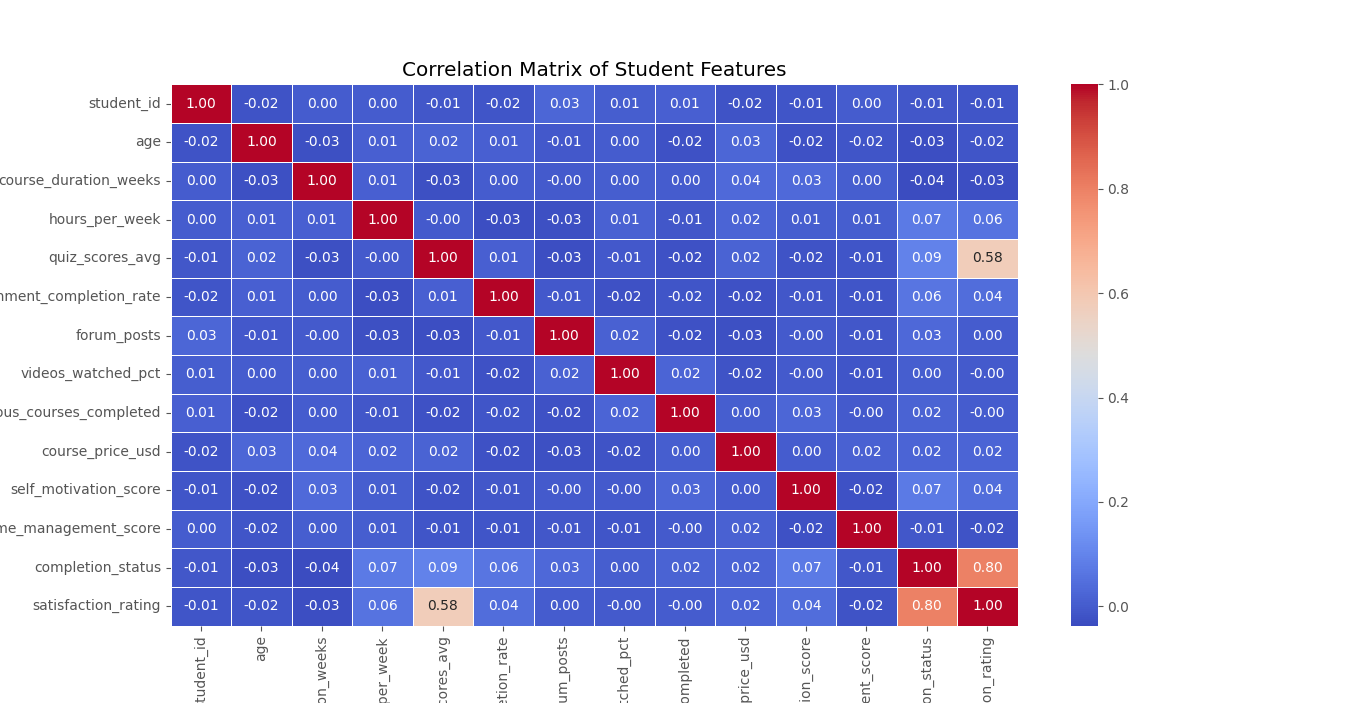
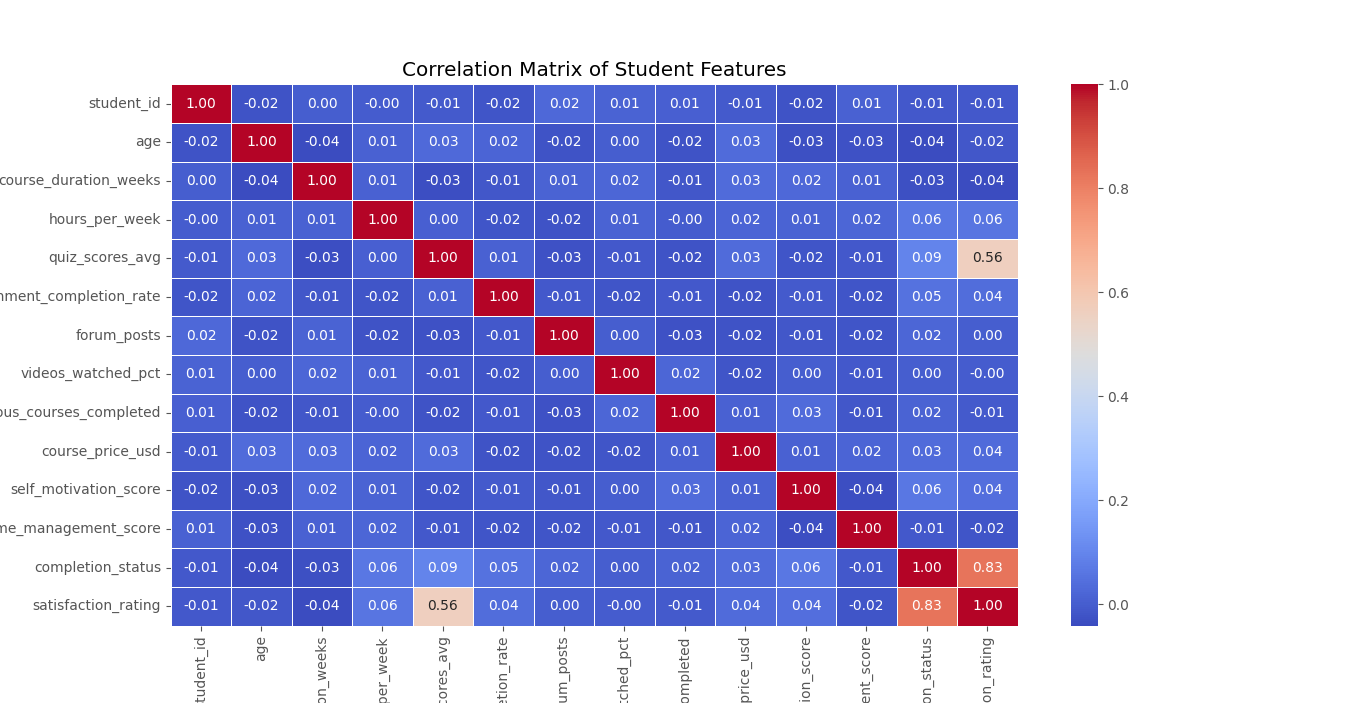
SVM graph

diff --git a/main.py b/main.py
@@ -23,6 +23,9 @@ print("Are there any nulls in the dataset?", df.isna().values.any())
 # check for duplicates
 print("Total duplicates:", df.duplicated().sum())
 
+# Removing in progress students as we don't know the outcome
+df = df[df['completion_status'] != 'In Progress'].copy()
+
 # check for balanced classes?
 # Potential bias toward 'Completed' as majority class
 sns.countplot(x='completion_status', data=df)
@@ -35,7 +38,7 @@ plt.title('Does a higher self-motivation score lead to completion?')
 plt.clf()
 
 # encoding completion_status for heatmap
-df['completion_status'] = df['completion_status'].map({'Dropped': 0, 'In Progress': 1, 'Completed': 2})
+df['completion_status'] = df['completion_status'].map({'Dropped': 0, 'Completed': 1})
 
 # Correlation matrix heatmap
 numeric_df = df.select_dtypes(include=['float64', 'int64'])
@@ -45,4 +48,55 @@ numeric_df = df.select_dtypes(include=['float64', 'int64'])
 plt.figure(figsize=(12, 8))
 sns.heatmap(numeric_df.corr(), annot=True, cmap='coolwarm', fmt=".2f", linewidths=0.5)
 plt.title('Correlation Matrix of Student Features')
+plt.clf()
+
+from sklearn.svm import SVC
+from sklearn.model_selection import train_test_split
+from sklearn.preprocessing import StandardScaler
+from sklearn.metrics import classification_report
+
+# defining features and target
+X = df[['hours_per_week', 'satisfaction_rating']]
+y = df['completion_status']
+
+# train test split
+X_train, X_test, y_train, y_test = train_test_split(X, y, test_size=0.2, random_state=42)
+
+# scaling X data
+scaler = StandardScaler()
+X_train_scaled = scaler.fit_transform(X_train)
+X_test_scaled = scaler.transform(X_test)
+
+# training
+svm_model = SVC(kernel='linear', class_weight='balanced')
+svm_model.fit(X_train_scaled, y_train)
+
+# evaluate
+# very high score of 0.98. Same score across
+score = svm_model.score(X_test_scaled, y_test)
+print(f"Model Accuracy on Test Set: {score:.2f}")
+print(f"Training Accuracy: {svm_model.score(X_train_scaled, y_train):.2f}")
+print(f"Test Accuracy: {svm_model.score(X_test_scaled, y_test):.2f}")
+
+# Visualization
+# Plotting the test set and the decision boundary
+df_scaled = pd.DataFrame(X_test_scaled, columns=['Hours', 'Satisfaction'])
+df_scaled['Status'] = y_test.values
+
+# Use Seaborn's scatterplot with hue (color)
+plt.figure(figsize=(8, 6))
+sns.scatterplot(data=df_scaled, x='Hours', y='Satisfaction', hue='Status', palette='coolwarm', style=None, s=100)
+
+# adding hyperplane
+w = svm_model.coef_[0]
+b = svm_model.intercept_[0]
+
+x_range = np.array([df_scaled['Hours'].min(), df_scaled['Hours'].max()])
+y_range = -(w[0] / w[1]) * x_range - (b / w[1])
+
+plt.plot(x_range, y_range, 'k--', linewidth=2, label='Decision Boundary')
+plt.title('SVM Classification: Student Outcomes')
+plt.legend()
 plt.show()
+
+
